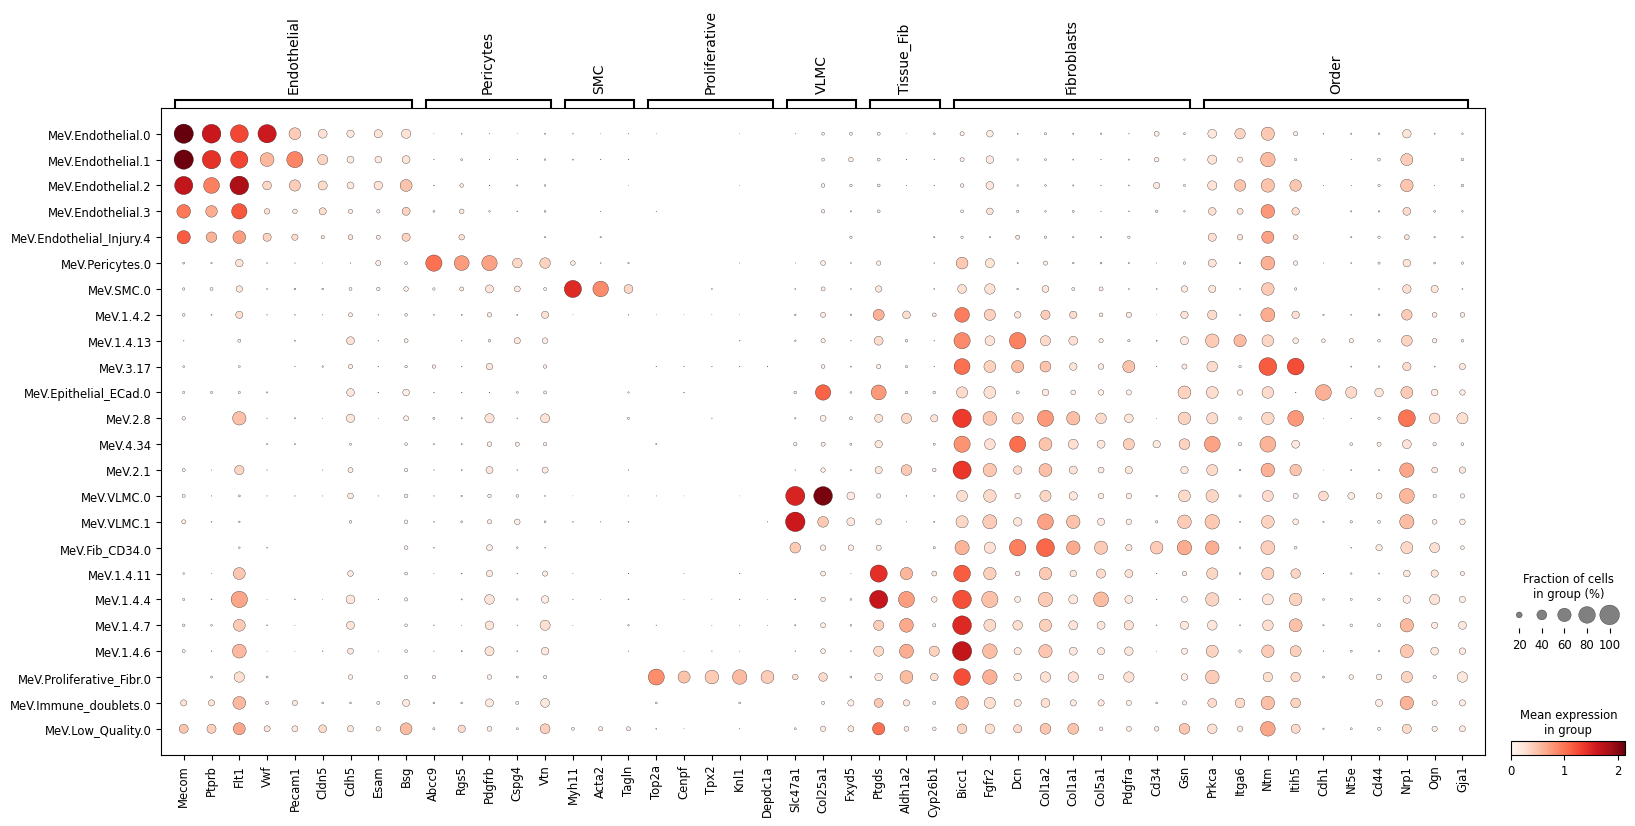
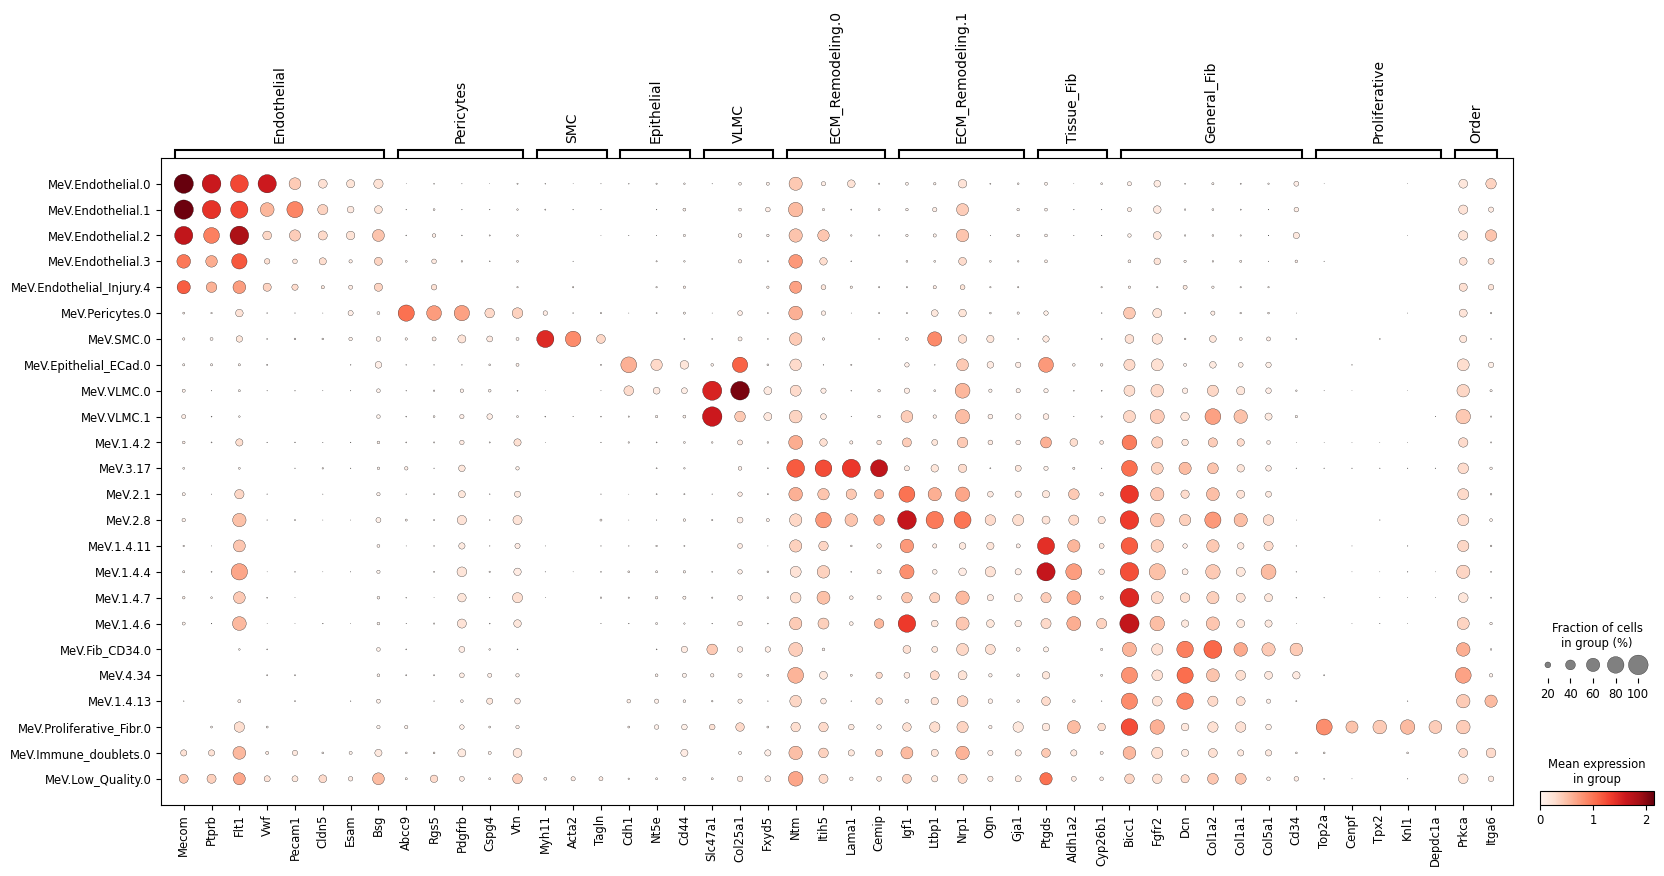
removed wrong files

diff --git a/src/scripts/scripts_meningeal/meningeal_canonical.py b/src/scripts/scripts_meningeal/meningeal_canonical.py
@@ -119,7 +119,7 @@ def create_dotplots_with_thresholds(adata, genes, thresholds, cluster_order, out
         user_gene_group_order = []
 
         # Example user-defined gene group order
-        user_gene_group_order = ["Endothelial", "Pericytes", "SMC", "Proliferative", "VLMC", "Tissue_Fib","Fibroblasts", "Order"]
+        user_gene_group_order = ["Endothelial", "Pericytes", "SMC","Epithelial", "VLMC","ECM_Remodeling.0", "ECM_Remodeling.1", "Tissue_Fib", "General_Fib", "Proliferative", "Order"]
 
         # Reorder the dictionary based on user order
         top_genes_names = {key: top_genes_names[key] for key in user_gene_group_order}
@@ -354,8 +354,8 @@ if __name__ == "__main__":
     pts_thresholds = [0, 0.2, 0.3]
 
     custom_cluster_order = ["MeV.Endothelial.0", "MeV.Endothelial.1", "MeV.Endothelial.2", "MeV.Endothelial.3", "MeV.Endothelial_Injury.4", "MeV.Pericytes.0", "MeV.SMC.0", 
-     "MeV.1.4.2" , "MeV.1.4.13", "MeV.3.17", "MeV.Epithelial_ECad.0", "MeV.2.8","MeV.4.34", "MeV.2.1", 
-     "MeV.VLMC.0", "MeV.VLMC.1" ,"MeV.Fib_CD34.0", "MeV.1.4.11", "MeV.1.4.4", "MeV.1.4.7", "MeV.1.4.6","MeV.Proliferative_Fibr.0", 
+     "MeV.Epithelial_ECad.0", "MeV.VLMC.0", "MeV.VLMC.1", "MeV.1.4.2" , "MeV.3.17", "MeV.2.1", "MeV.2.8",
+      "MeV.1.4.11", "MeV.1.4.4", "MeV.1.4.7", "MeV.1.4.6","MeV.Fib_CD34.0","MeV.4.34", "MeV.1.4.13", "MeV.Proliferative_Fibr.0", 
      "MeV.Immune_doublets.0", "MeV.Low_Quality.0"]
 
     # Check for mismatches before reordering
